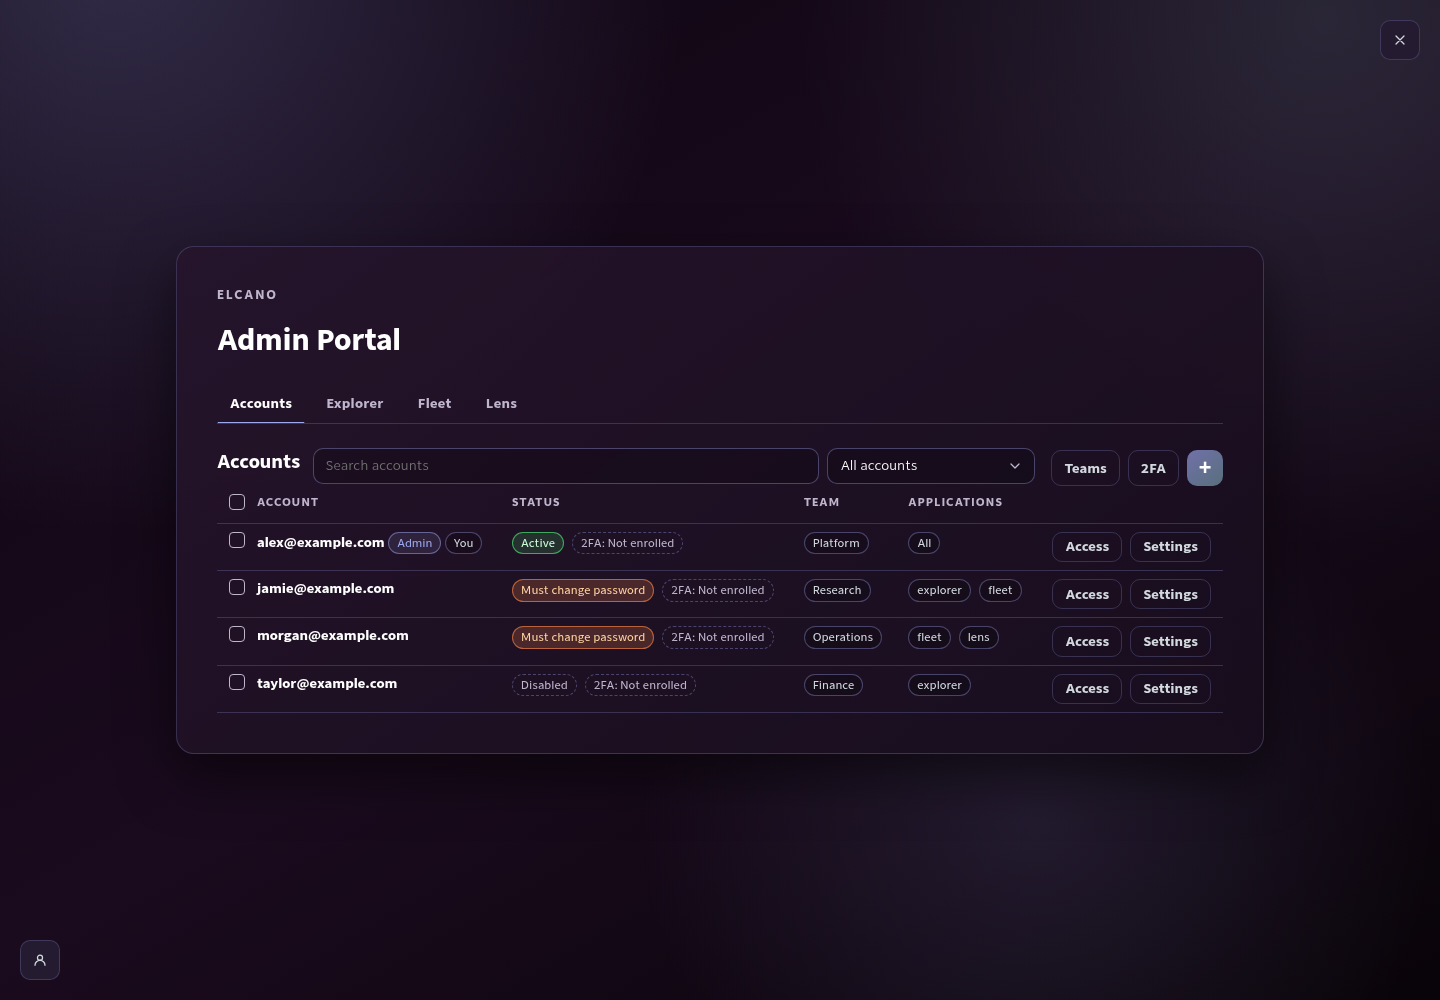
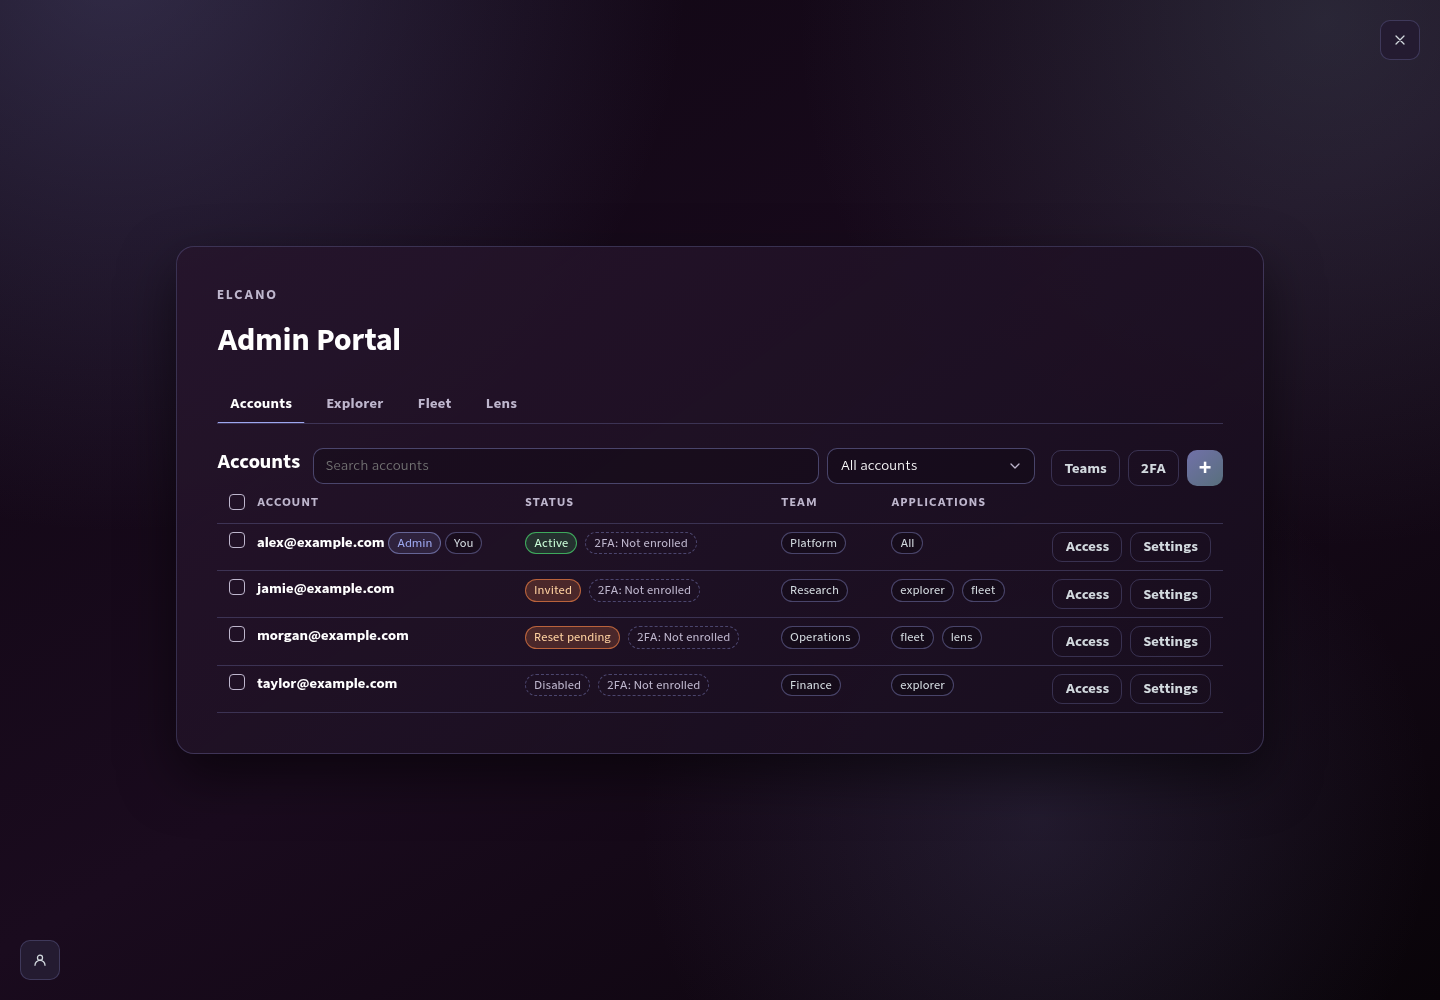
Tell an invited account from one whose password was reset in the console (#114)
The Accounts table showed "Must change password" both for a new account still on its temporary password and for an account an administrator had just reset. It now shows "Invited" for the first and "Reset pending" for the second, says since when on hover, and the account filter offers each.

Motivation
- An administrator could not tell, from the table, whether someone had never signed in or was mid-reset, nor how long either had been waiting.

Fix
- Schema v14 adds `accounts.password_reset_at`: set by a must-change replacement (the console's reset, `auth-admin user set-password`), cleared whenever the person chooses their own password (replacePassword without must-change, and the MFA transaction's change). A first cut compared password and account timestamps; review showed one-second precision cannot order a create and a reset in the same second, so the reset is recorded instead. The migration backfills a reset already pending by that old rule. `ListPasswordAccounts` reads the marker into `Account.PasswordResetAt` (a small scanner adapter appends the column to `scanAccount`'s); `Account.PasswordResetPending()` is must-change with the marker set.
- Console: Status is "Reset pending" (since the reset) or "Invited" (since creation), both `warn` as before, with the time on hover; both still turn Active when the person chooses their own password. The account filter's "Must change password" becomes "Invited" and "Reset pending" (`invited`, `reset-pending`).
[…]

diff --git a/internal/httpapi/templates/admin.html b/internal/httpapi/templates/admin.html
@@ -86,7 +86,8 @@
               <option value="active">Active</option>
               <option value="disabled">Disabled</option>
               <option value="admin">Auth administrators</option>
-              <option value="must-change">Must change password</option>
+              <option value="invited">Invited</option>
+              <option value="reset-pending">Reset pending</option>
               <option value="mfa-enabled">2FA enabled</option>
               <option value="mfa-missing">2FA not enrolled</option>
             </select>{{template "icon" "chevron-down"}}</span>
@@ -102,10 +103,10 @@
       <div class="table-wrap"><table class="list">
         <thead><tr><th class="sel"><input type="checkbox" data-select-all aria-label="Select every account"></th><th>Account</th><th>Status</th><th>Team</th><th>Applications</th><th></th></tr></thead>
         <tbody>
-        {{range $i, $row := .Accounts}}<tr data-account-row data-account-search-value="{{$row.Email}} {{$row.Team}} {{$row.Status}} {{$row.MFAStatus}}{{if $row.IsAdmin}} administrator admin{{end}}{{range $row.Apps}}{{if .Granted}} {{.Name}}{{end}}{{end}}" data-account-filter-values="{{if eq $row.Status "Active"}}active{{else if eq $row.Status "Disabled"}}disabled{{else}}must-change{{end}}{{if $row.IsAdmin}} admin{{end}}{{if $row.MFAEnrolled}} mfa-enabled{{else}} mfa-missing{{end}}">
+        {{range $i, $row := .Accounts}}<tr data-account-row data-account-search-value="{{$row.Email}} {{$row.Team}} {{$row.Status}} {{$row.MFAStatus}}{{if $row.IsAdmin}} administrator admin{{end}}{{range $row.Apps}}{{if .Granted}} {{.Name}}{{end}}{{end}}" data-account-filter-values="{{if eq $row.Status "Active"}}active{{else if eq $row.Status "Disabled"}}disabled{{else if eq $row.Status "Reset pending"}}reset-pending{{else}}invited{{end}}{{if $row.IsAdmin}} admin{{end}}{{if $row.MFAEnrolled}} mfa-enabled{{else}} mfa-missing{{end}}">
           <td class="sel"><input type="checkbox" name="emails" value="{{$row.Email}}" form="batch-form" data-select aria-label="Select {{$row.Email}}"></td>
           <td class="who">{{$row.Email}}{{if $row.IsAdmin}} <span class="badge admin">Admin</span>{{end}}{{if $row.Self}} <span class="badge">You</span>{{end}}</td>
-          <td><div class="chips"><span class="badge {{$row.StatusClass}}">{{$row.Status}}</span><span class="badge {{$row.MFAClass}}" title="Two-factor sign-in">2FA: {{$row.MFAStatus}}</span></div></td>
+          <td><div class="chips"><span class="badge {{$row.StatusClass}}"{{with $row.StatusTitle}} title="{{.}}"{{end}}>{{$row.Status}}</span><span class="badge {{$row.MFAClass}}" title="Two-factor sign-in">2FA: {{$row.MFAStatus}}</span></div></td>
           <td>{{if $row.Team}}<span class="tag">{{$row.Team}}</span>{{else}}<span class="chip off">none</span>{{end}}</td>
           <td><div class="chips">{{if $row.AllApps}}<span class="chip" title="{{range $j, $app := $row.Apps}}{{if $j}}, {{end}}{{$app.Name}}{{end}}">All</span>{{else}}{{range $row.Apps}}{{if .Granted}}<span class="chip">{{.Name}}</span>{{end}}{{end}}{{if eq $row.GrantedApps 0}}<span class="chip off">none</span>{{end}}{{end}}</div></td>
           <td><div class="row-actions">

diff --git a/internal/store/store.go b/internal/store/store.go
@@ -475,7 +475,10 @@ func (s *Store) migrate(ctx context.Context) error {
 	if err := s.migrateSessionState(ctx); err != nil {
 		return err
 	}
-	return s.migrateTeamRenames(ctx)
+	if err := s.migrateTeamRenames(ctx); err != nil {
+		return err
+	}
+	return s.migratePasswordReset(ctx)
 }
 
 // migrateAccessProvisioning is schema v8. It snapshots every existing grant
@@ -899,6 +902,18 @@ type Account struct {
 	SecurityVersion    int64  // bumped by every factor-affecting change
 	CreatedAt          time.Time
 	UpdatedAt          time.Time
+	// PasswordResetAt is when an administrator's reset set the temporary
+	// password this account must still change (accounts.password_reset_at,
+	// password_reset.go); nil when no reset is pending. Only
+	// ListPasswordAccounts reads it; elsewhere it is nil.
+	PasswordResetAt *time.Time
+}
+
+// PasswordResetPending reports whether the change an account must make
+// follows an administrator's reset rather than its creation. Meaningful only
+// on an account from ListPasswordAccounts.
+func (a Account) PasswordResetPending() bool {
+	return a.MustChangePassword && a.PasswordResetAt != nil
 }
 
 func normalizeAccountEmail(email string) string {
@@ -1054,6 +1069,14 @@ func passwordAccountByIDQ(ctx context.Context, q querier, id string) (Account, e
 
 type rowScanner interface{ Scan(...any) error }
 
+// scanWithExtra scans the columns a query selects after scanAccount's.
+type scanWithExtra struct {
+	row   rowScanner
+	extra []any
+}
+
+func (s scanWithExtra) Scan(dest ...any) error { return s.row.Scan(append(dest, s.extra...)...) }
+
 func scanAccount(row rowScanner) (Account, error) {
 	var a Account
 	var disabled sql.NullInt64
@@ -1169,8 +1192,14 @@ func (s *Store) replacePassword(ctx context.Context, userID, expectedHash, passw
 		}
 		return ErrAccountNotFound
 	}
-	if _, err := tx.ExecContext(ctx, `UPDATE accounts SET must_change_password = ?, updated_at = ? WHERE id = ?`,
-		boolInt(mustChange), now, userID); err != nil {
+	// A must-change replacement is an administrator's reset; the person's own
+	// password clears the marker (password_reset.go).
+	var resetAt any
+	if mustChange {
+		resetAt = now
+	}
+	if _, err := tx.ExecContext(ctx, `UPDATE accounts SET must_change_password = ?, password_reset_at = ?, updated_at = ? WHERE id = ?`,
+		boolInt(mustChange), resetAt, now, userID); err != nil {
 		return err
 	}
 	if rotate != nil {
@@ -1261,7 +1290,8 @@ func (s *Store) ListPasswordAccounts(ctx context.Context) ([]Account, error) {
 		SELECT a.id, a.email, a.normalized_email, p.password_hash, a.disabled_at,
 		       a.must_change_password, a.is_admin, a.team, a.created_at, a.updated_at,
 		       a.mfa_required, a.security_version,
-		       EXISTS (SELECT 1 FROM authenticators f WHERE f.user_id = a.id AND f.kind = 'totp' AND f.verified_at IS NOT NULL AND f.disabled_at IS NULL)
+		       EXISTS (SELECT 1 FROM authenticators f WHERE f.user_id = a.id AND f.kind = 'totp' AND f.verified_at IS NOT NULL AND f.disabled_at IS NULL),
+		       a.password_reset_at
 		FROM accounts a JOIN password_credentials p ON p.user_id = a.id
 		ORDER BY a.normalized_email`)
 	if err != nil {
@@ -1270,9 +1300,14 @@ func (s *Store) ListPasswordAccounts(ctx context.Context) ([]Account, error) {
 	defer func() { _ = rows.Close() }()
 	var out []Account
 	for rows.Next() {
-		a, err := scanAccount(rows)
+		var resetAt sql.NullInt64
+		a, err := scanAccount(scanWithExtra{rows, []any{&resetAt}})
 		if err != nil {
 			return nil, err
+		}
+		if resetAt.Valid {
+			t := time.Unix(resetAt.Int64, 0)
+			a.PasswordResetAt = &t
 		}
 		// Listing is an administrative metadata operation. Do not retain
 		// credential material in the returned slice when no caller needs it.

diff --git a/internal/store/store_test.go b/internal/store/store_test.go
@@ -1018,3 +1018,84 @@ func TestSweepDeletesOldAuditEventsOnlyWhenRetentionSet(t *testing.T) {
 		t.Fatalf("wrong row survived: %+v", events)
 	}
 }
+
+// A forced password change after an administrator's reset is told from one
+// left over from creation by the reset marker (schema v14), even when the
+// reset lands in the same second as the creation.
+func TestListPasswordAccountsTellsAResetFromAnInvite(t *testing.T) {
+	s := openTestStore(t)
+	ctx := context.Background()
+	if _, err := s.CreatePasswordAccount(ctx, "new@example.com", "hash", true, 1000); err != nil {
+		t.Fatal(err)
+	}
+	pending := func() (bool, bool, int64) {
+		t.Helper()
+		all, err := s.ListPasswordAccounts(ctx)
+		if err != nil || len(all) != 1 {
+			t.Fatalf("list = (%+v, %v)", all, err)
+		}
+		var at int64
+		if all[0].PasswordResetAt != nil {
+			at = all[0].PasswordResetAt.Unix()
+		}
+		return all[0].MustChangePassword, all[0].PasswordResetPending(), at
+	}
+	if must, reset, _ := pending(); !must || reset {
+		t.Fatalf("new account: must=%v reset=%v, want invited", must, reset)
+	}
+	if err := s.SetPassword(ctx, "new@example.com", "hash2", true, 1000); err != nil { // the same second
+		t.Fatal(err)
+	}
+	if must, reset, at := pending(); !must || !reset || at != 1000 {
+		t.Fatalf("after a reset: must=%v reset=%v at=%d, want reset pending at 1000", must, reset, at)
+	}
+	if err := s.SetPassword(ctx, "new@example.com", "hash3", false, 3000); err != nil {
+		t.Fatal(err)
+	}
+	if must, reset, at := pending(); must || reset || at != 0 {
+		t.Fatalf("after their own password: must=%v reset=%v at=%d, want neither", must, reset, at)
+	}
+}
+
+// Schema v14 backfills a reset already pending (a temporary password newer
+// than the account) and leaves an invited account alone.
+func TestPasswordResetMigrationBackfillsPendingResets(t *testing.T) {
+	dir := t.TempDir()
+	s, err := Open(dir)
+	if err != nil {
+		t.Fatal(err)
+	}
+	ctx := context.Background()
+	for _, e := range []string{"invited@example.com", "reset@example.com"} {
+		if _, err := s.CreatePasswordAccount(ctx, e, "hash", true, 1000); err != nil {
+			t.Fatal(err)
+		}
+	}
+	// As a v13 database: no marker column, a reset only visible as a newer
+	// password.
+	for _, q := range []string{
+		`UPDATE password_credentials SET changed_at = 2000 WHERE user_id = (SELECT id FROM accounts WHERE normalized_email = 'reset@example.com')`,
+		`ALTER TABLE accounts DROP COLUMN password_reset_at`,
+		`DELETE FROM schema_migrations WHERE version = 14`,
+	} {
+		if _, err := s.db.ExecContext(ctx, q); err != nil {
+			t.Fatalf("%s: %v", q, err)
+		}
+	}
+	_ = s.Close()
+	s, err = Open(dir)
+	if err != nil {
+		t.Fatalf("reopen: %v", err)
+	}
+	defer func() { _ = s.Close() }()
+	all, err := s.ListPasswordAccounts(ctx)
+	if err != nil || len(all) != 2 {
+		t.Fatalf("list = (%+v, %v)", all, err)
+	}
+	for _, a := range all {
+		wantReset := a.NormalizedEmail == "reset@example.com"
+		if a.PasswordResetPending() != wantReset || (wantReset && a.PasswordResetAt.Unix() != 2000) {
+			t.Errorf("%s: reset pending = %v (at %v), want %v", a.NormalizedEmail, a.PasswordResetPending(), a.PasswordResetAt, wantReset)
+		}
+	}
+}

diff --git a/internal/httpapi/admin_test.go b/internal/httpapi/admin_test.go
@@ -1017,3 +1017,43 @@ func TestFleetPermissionDefaultsAndUnifiedAdminReachTheProvisioningOutbox(t *tes
 		t.Fatalf("Fleet Admin state = %+v, ok=%v err=%v", state, ok, err)
 	}
 }
+
+// The console tells a new account still on its temporary password (Invited)
+// from one an administrator reset (Reset pending), says since when on hover,
+// and filters on each.
+func TestConsoleTellsInvitedFromResetPending(t *testing.T) {
+	ts, st, cfg, plain := adminFixture(t)
+	ctx := context.Background()
+	now := time.Now().Unix()
+	if _, err := st.CreatePasswordAccount(ctx, "carol@example.com", mustHash(t, plain), true, now); err != nil {
+		t.Fatal(err)
+	}
+	if err := st.SetPassword(ctx, "bob@example.com", mustHash(t, plain), true, now+60); err != nil {
+		t.Fatal(err)
+	}
+	alice := loginAdmin(t, ts, cfg, "alice@example.com", plain)
+	_, body := alice.get("/admin")
+	row := func(email string) string {
+		start := strings.Index(body, `data-account-search-value="`+email)
+		if start < 0 {
+			t.Fatalf("no row for %s", email)
+		}
+		r := body[start:]
+		return r[:strings.Index(r, "</tr>")]
+	}
+	carol, bob := row("carol@example.com"), row("bob@example.com")
+	if !strings.Contains(carol, `>Invited</span>`) || !strings.Contains(carol, "they have not signed in and chosen a password yet.") || !strings.Contains(carol, `data-account-filter-values="invited`) {
+		t.Errorf("new account's row:\n%s", carol)
+	}
+	if !strings.Contains(bob, `>Reset pending</span>`) || !strings.Contains(bob, "Password reset ") || !strings.Contains(bob, "they have not set a new one yet.") || !strings.Contains(bob, `data-account-filter-values="reset-pending`) {
+		t.Errorf("reset account's row:\n%s", bob)
+	}
+	if strings.Contains(body, "Must change password") {
+		t.Error("the console still says Must change password")
+	}
+	for _, want := range []string{`<option value="invited">Invited</option>`, `<option value="reset-pending">Reset pending</option>`} {
+		if !strings.Contains(body, want) {
+			t.Errorf("filter lacks %s", want)
+		}
+	}
+}

diff --git a/internal/store/password_reset.go b/internal/store/password_reset.go
@@ -1,0 +1,46 @@
+package store
+
+import (
+	"context"
+	"fmt"
+	"time"
+)
+
+// Password reset marker (schema v14). accounts.password_reset_at is set when
+// an administrator replaces an account's password with a temporary one it
+// must change (SetPassword with mustChange: the console's reset, `auth-admin
+// user set-password`) and cleared when the person chooses their own. A new
+// account's must-change state leaves it NULL, so the console can tell
+// "Invited" from "Reset pending" without comparing timestamps, which cannot
+// order a create and a reset in the same second.
+
+// migratePasswordReset is schema v14: accounts.password_reset_at, backfilled
+// for a reset already pending, the one case the old timestamp rule could
+// recognise (a temporary password newer than the account).
+func (s *Store) migratePasswordReset(ctx context.Context) error {
+	tx, err := s.db.BeginTx(ctx, nil)
+	if err != nil {
+		return err
+	}
+	defer func() { _ = tx.Rollback() }()
+	claim, err := tx.ExecContext(ctx,
+		`INSERT INTO schema_migrations(version, applied_at) VALUES(14, ?) ON CONFLICT(version) DO NOTHING`, time.Now().Unix())
+	if err != nil {
+		return fmt.Errorf("claim password reset schema version: %w", err)
+	}
+	if n, _ := claim.RowsAffected(); n == 0 {
+		return nil
+	}
+	if !hasColumnQ(ctx, tx, "accounts", "password_reset_at") {
+		if _, err := tx.ExecContext(ctx, `ALTER TABLE accounts ADD COLUMN password_reset_at INTEGER`); err != nil {
+			return fmt.Errorf("add accounts.password_reset_at: %w", err)
+		}
+	}
+	if _, err := tx.ExecContext(ctx, `
+		UPDATE accounts SET password_reset_at = (SELECT p.changed_at FROM password_credentials p WHERE p.user_id = accounts.id)
+		WHERE must_change_password = 1 AND password_reset_at IS NULL
+		  AND EXISTS (SELECT 1 FROM password_credentials p WHERE p.user_id = accounts.id AND p.changed_at > accounts.created_at)`); err != nil {
+		return fmt.Errorf("backfill accounts.password_reset_at: %w", err)
+	}
+	return tx.Commit()
+}

diff --git a/internal/httpapi/admin.go b/internal/httpapi/admin.go
@@ -42,7 +42,8 @@ type adminAppChoice struct {
 
 type adminAccountRow struct {
 	Email         string
-	Status        string // Active | Disabled | Must change password
+	Status        string // Active | Disabled | Invited | Reset pending
+	StatusTitle   string // when Invited or Reset pending began, on hover
 	StatusClass   string // ok | off | warn
 	IsAdmin       bool
 	Team          string
@@ -1542,8 +1543,13 @@ func (s *Server) renderAdmin(w http.ResponseWriter, r *http.Request, identity *p
 			switch {
 			case a.DisabledAt != nil:
 				row.Status, row.StatusClass = "Disabled", "off"
+			case a.PasswordResetPending():
+				row.Status, row.StatusClass = "Reset pending", "warn"
+				row.StatusTitle = "Password reset " + a.PasswordResetAt.UTC().Format("2006-01-02 15:04") + " UTC; they have not set a new one yet."
 			case a.MustChangePassword:
-				row.Status, row.StatusClass = "Must change password", "warn"
+				// A new account still on the temporary password it was created with.
+				row.Status, row.StatusClass = "Invited", "warn"
+				row.StatusTitle = "Created " + a.CreatedAt.UTC().Format("2006-01-02 15:04") + " UTC; they have not signed in and chosen a password yet."
 			default:
 				row.Status, row.StatusClass = "Active", "ok"
 			}

diff --git a/internal/store/mfa.go b/internal/store/mfa.go
@@ -1682,7 +1682,7 @@ func (s *Store) ReplacePasswordUnderTransaction(ctx context.Context, transaction
 	if n, _ := res.RowsAffected(); n == 0 {
 		return ErrCredentialChanged
 	}
-	if _, err := tx.ExecContext(ctx, `UPDATE accounts SET must_change_password = 0, updated_at = ? WHERE id = ?`, now, userID); err != nil {
+	if _, err := tx.ExecContext(ctx, `UPDATE accounts SET must_change_password = 0, password_reset_at = NULL, updated_at = ? WHERE id = ?`, now, userID); err != nil {
 		return err
 	}
 	if _, err := revokeSessionsTx(ctx, tx, userID, now, "password_replaced"); err != nil {

diff --git a/docs/AUTH_V2_IMPLEMENTATION.md b/docs/AUTH_V2_IMPLEMENTATION.md
@@ -81,7 +81,7 @@ credential. The upgrade requires no schema migration or operator setting.
 
 The password/session foundation adds:
 
-- `accounts`: immutable ID, normalized email, disabled and must-change state.
+- `accounts`: immutable ID, normalized email, disabled and must-change state, and when an administrator's reset left a temporary password still to change (`password_reset_at`, schema v14).
 - `password_credentials`: one versioned PHC hash per password account.
 - `auth_sessions`: hashed token, activity/expiry, revocation reason.
 - `login_attempts`: hashed email/IP rate keys and attempt timestamps.
